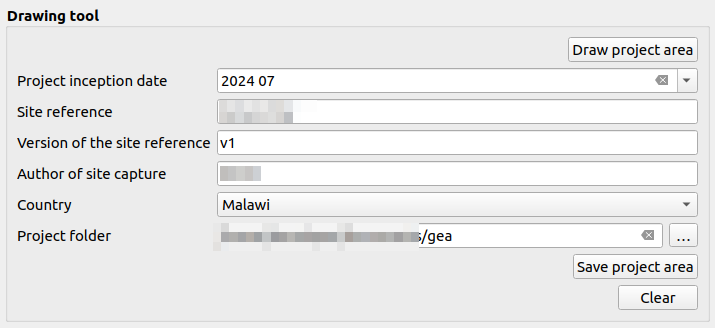
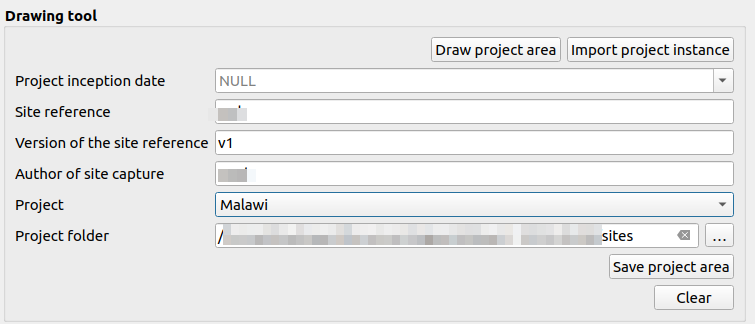
Added import instance doc

diff --git a/docs/src/user/manual/gea-reforestation-tool.md b/docs/src/user/manual/gea-reforestation-tool.md
@@ -46,7 +46,7 @@ The user can use the drawing tool to draw polygons on the map canvas.
     
 ![Drawing tool](./img/gea-reforestation-tool-5.png)
 
-5.1 **Draw Project Area Button:** The user can use this button to draw the polygon on the map canvas. Before using the `Draw Project Area` button, ensure that the site reference has been provided. After drawing the polygon right-click. Upon clicking the pop-up will open for entering the ID, ID should be 1.
+**Draw Project Area Button:** The user can use this button to draw the polygon on the map canvas. Before using the `Draw Project Area` button, ensure that the site reference has been provided. After drawing the polygon right-click. Upon clicking the pop-up will open for entering the ID, ID should be 1.
 
 ![Id popup](./img/gea-reforestation-tool-9.png)
 
@@ -54,29 +54,59 @@ The user can use the drawing tool to draw polygons on the map canvas.
 
     ![Error message](./img/gea-reforestation-tool-4.png)
 
-- **Editing:** After drawing the polygon, you can edit it using the options available in the toolbar. The edit icon will appear in front of the project in the layer list, allowing modifications before saving.
+* **Editing:** After drawing the polygon, you can edit it using the options available in the toolbar. The edit icon will appear in front of the project in the layer list, allowing modifications before saving.
 
     ![Edit options](./img/gea-reforestation-tool-6.png)
 
-5.2 **Project Inception Date:** To choose the project inception date, click on the field to open a calendar. Select the desired date from the calendar interface.
+* **Project Inception Date:** To choose the project inception date, click on the field to open a calendar. Select the desired date from the calendar interface.
 
 ![Calander](./img/gea-reforestation-tool-7.png)
 
-5.3 **Site Reference:** Enter the site reference to identify the specific location or area for the project.
+* **Site Reference:** Enter the site reference to identify the specific location or area for the project.
 
-5.4 **Version of the Site Reference:** Add the version number corresponding to the site reference for version control and tracking.
+* **Version of the Site Reference:** Add the version number corresponding to the site reference for version control and tracking.
 
-5.5 **Author of the Site Capture:** Enter the name of the individual who captured or recorded the site details.
+* **Author of the Site Capture:** Enter the name of the individual who captured or recorded the site details.
 
-5.6 **Country Dropdown:** Choose the country from the dropdown list to specify the location of the project.
+* **Country Dropdown:** Choose the country from the dropdown list to specify the location of the project.
 
-5.7 **Project Folder:** Select the project folder where plugin data is stored. The shape files will be saved in the `Sites` directory, which is automatically generated when you save the project.
+* **Project Folder:** Select the project folder where plugin data is stored. The shape files will be saved in the `Sites` directory, which is automatically generated when you save the project.
 
 ![Sites directory](./img/gea-reforestation-tool-8.png)
 
-5.8 **Save Project Area Button:** Click the `Save Project Area` button to save the project after drawing the polygon. The shape files will be stored in the `Sites` directory.
+* **Save Project Area Button:** Click the `Save Project Area` button to save the project after drawing the polygon. The shape files will be stored in the `Sites` directory.
 
-5.9 **Clear Button:** Use the `Clear` button to remove the polygon from the map. Note that the polygon must be cleared before saving the project, as shape files stored in the sites folder will not be deleted after saving.
+* **Clear Button:** Use the `Clear` button to remove the polygon from the map. Note that the polygon must be cleared before saving the project, as shape files stored in the sites folder will not be deleted after saving.
+
+**Import project instance:** The user can use the `Import project instance` button to import project instances directly from the system. After clicking on the `Import project instance` button, a pop-up window will appear where the user can select an instance from the available options.
+
+![Import Project Instance](./img/gea-reforestation-tool-10.png)
+
+* **Cancle:** Close the pop-up window.
+* **Open:** Select the file and click on the `Open button` to proceed.
+* **Shapefiles:** Extension of the file.
+
+After selecting the desired project instance user will click on the `open` button and a pop up project instance attributes dialog box will appear.
+
+![Project Instance Attributes](./img/gea-reforestation-tool-11.png)
+
+* **X:** Close the pop-up dialog box. 
+* **Report Author:** The name of the person generating the report.
+* **Project:** The name of the country where the project is located.
+* **Cancle:** Terminate the process.
+* **Save:** Save the instance to proceed.
+
+**Error Message:** If the author, project, IncepDate, or area names are already present in the project instance, you will encounter this error.
+
+![Error](./img/gea-reforestation-tool-13.png)
+
+* **X:** Close the window.
+* **No:**  Cancel the process.
+* **Yes:** Overwrite names.
+
+After saving the instance, the selected instance will be added to the project instances in the layer section.
+
+![Qgis Interface](./img/gea-reforestation-tool-12.png)
 
 ## Automated Report
 

diff --git a/docs/src/user/guide/gea-reforestation-tool.md b/docs/src/user/guide/gea-reforestation-tool.md
@@ -150,7 +150,7 @@ This tutorial, will walk you through using the `Drawing Tool` to create project 
 
 * Author of the Site Capture: Enter the name of the person who recorded the site details.
 
-* Country: Select the project's country from the dropdown list.
+* Project: Select the project's origin from the dropdown list.
 
 * Project Folder: Choose the folder where plugin data will be stored.
     
@@ -161,6 +161,37 @@ This tutorial, will walk you through using the `Drawing Tool` to create project 
 **Clearing the Project Area:** Use the `Clear` button to remove the polygon from the map.
 
    - Important: Clear the polygon before saving a new project, as existing shape files in the Sites folder won't be automatically deleted.
+
+## How to import project instance
+
+
+**Accessing Import project instance:** Click on the 1⃣ `Import project instance` on the qgis  interface.
+
+![Image Project Instance](./img/gea-reforestation-tool-16.png)
+
+After clicking on the `Import Project Instance`, a pop-up window will appear. Locate your project instance directory, then select the instance and click the 1⃣ `Open` button.
+
+![Select Project Instance Window](./img/gea-reforestation-tool-17.png)
+
+After selecting the desired project instance, a `Project Instance Attributes` pop-up window will appear, where you need to fill in some information to proceed.
+
+![Project Instance Attributes](./img/gea-reforestation-tool-18.png)
+
+- **Report Author :** Name of the person generating the report.
+- **Project :** Select the origin of the project from dropdown menu.
+- **Cencel :** Click on the `Cancel` button to stop the process.
+- **Save :** Click on the `Save` button to complete the process.
+
+**Error Message:** If the author, project, IncepDate, or area names are already present in the project instance, you will encounter this error.
+
+![Error](./img/gea-reforestation-tool-20.png)
+
+* **No:**  Cancel the process.
+* **Yes:** Overwrite names.
+
+After saving the instance, your selected instance will be added to the project instance in the layer section.
+
+![Import Project Instances](./img/gea-reforestation-tool-19.png)
 
 ## Automated Report Generation
 
